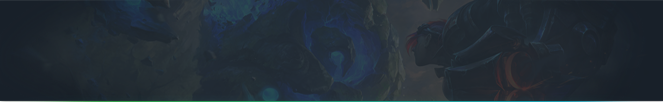
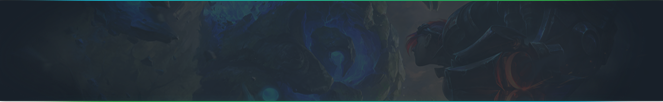
Final layout, fixed elements and floating effect of chat, navigation, match-header and adds

Changed region(s): [[0.0603, 0.0, 0.9351, 0.0294]]

diff --git a/public/match.css b/public/match.css
@@ -31,6 +31,10 @@ ul {
 	list-style-type: none;
 }
 
+body {
+	background: #141b23;
+}
+
 .container {
 	width: 100%;
 	height: 970px;
@@ -254,21 +258,22 @@ ul {
 
 .wrapper {
 	width: 1082px;
-	height: 900px;
+	height: auto;
 }
 
 .club-page {
 	float: left;
 	width: 663px;
-	height: 880px;
+	height: 2580px;
 	background: #182029;
 	border: 1px solid #293440;
 	margin-top: 70px;
+	border-top: none;
 }
 
 .chat {
-	margin-left: 14px;
-	float: left;
+	margin-left: 679px;
+	position: fixed;
 	width: 400px;
 	height: 300px;
 	background: #182029;
@@ -558,20 +563,23 @@ ul {
 .ads {
 	width: 400px;
 	height: 300px;
-	float: left;
-	margin-top: 14px;
-	margin-left: 14px;
+	position: fixed;
+	margin-top: 386px;
+	margin-left: 679px;
 	background: #182029;
 	border: 1px solid #293440;
 }
 
 .match-header {
-	width: 100%;
-	height: 103px;
+	width: 663px;
+	height: 105px;
+	position: fixed;
 	background-image: url(images/match-header.png);
 	background-size: cover;
 	background-position: center;
 	background-repeat: no-repeat;
+	z-index: 205;
+	border-top: 1px solid #293440;
 }
 
 .team-1-info {
@@ -739,7 +747,7 @@ ul {
 }
 
 .score-bar {
-	width: 100%;
+	width: 663px;
 	height: 40px;
 	background: #181f26;
 	border: 1px solid #323a43;
@@ -748,6 +756,9 @@ ul {
 	-webkit-box-shadow: 0px 3px 17px 0px rgba(0,0,0,0.18);
 	-moz-box-shadow: 0px 3px 17px 0px rgba(0,0,0,0.18);
 	box-shadow: 0px 3px 17px 0px rgba(0,0,0,0.18);	
+	position: fixed;
+	margin-top: 104px;
+	z-index: 200;
 }
 
 .point-time {
@@ -807,13 +818,13 @@ ul {
 
 .gp-bg {
 	position: absolute;
-	margin-top: 9px;
+	margin-top: 12px;
 	margin-left: 16px;
 }
 
 .bp-bg {
 	position: absolute;
-	margin-top: 13px;
+	margin-top: 12px;
 	margin-left: 10px;
 }
 
@@ -892,6 +903,10 @@ ul {
 	box-shadow: 0px 3px 17px 0px rgba(0,0,0,0.18);	
 	margin-left: 12px;
 	float: left;
+}
+
+.main-msg {
+	margin-top: 147px;
 }
 
 .main-msg:hover {
@@ -1151,4 +1166,14 @@ ul {
 
 .msg-3 > .msg-bottom > .time-ago {
 	width: 100px;
+}
+
+.fix-line {
+	position: fixed;
+	width: 667px;
+	height: 50px;
+	background: #141b23;
+	z-index: 150;
+	margin-top: -50px;
+	margin-left: -2px;
 }

diff --git a/match.html b/match.html
@@ -76,6 +76,9 @@
 		</div><!-- end header -->
 		<div class="wrapper">
 			<div class="club-page">
+				<div class="fix-line">
+					
+				</div><!-- end fix-line -->
 				<div class="match-header">
 					<div class="team-1-info">
 						<p class="team-1-rank">#15</p>
